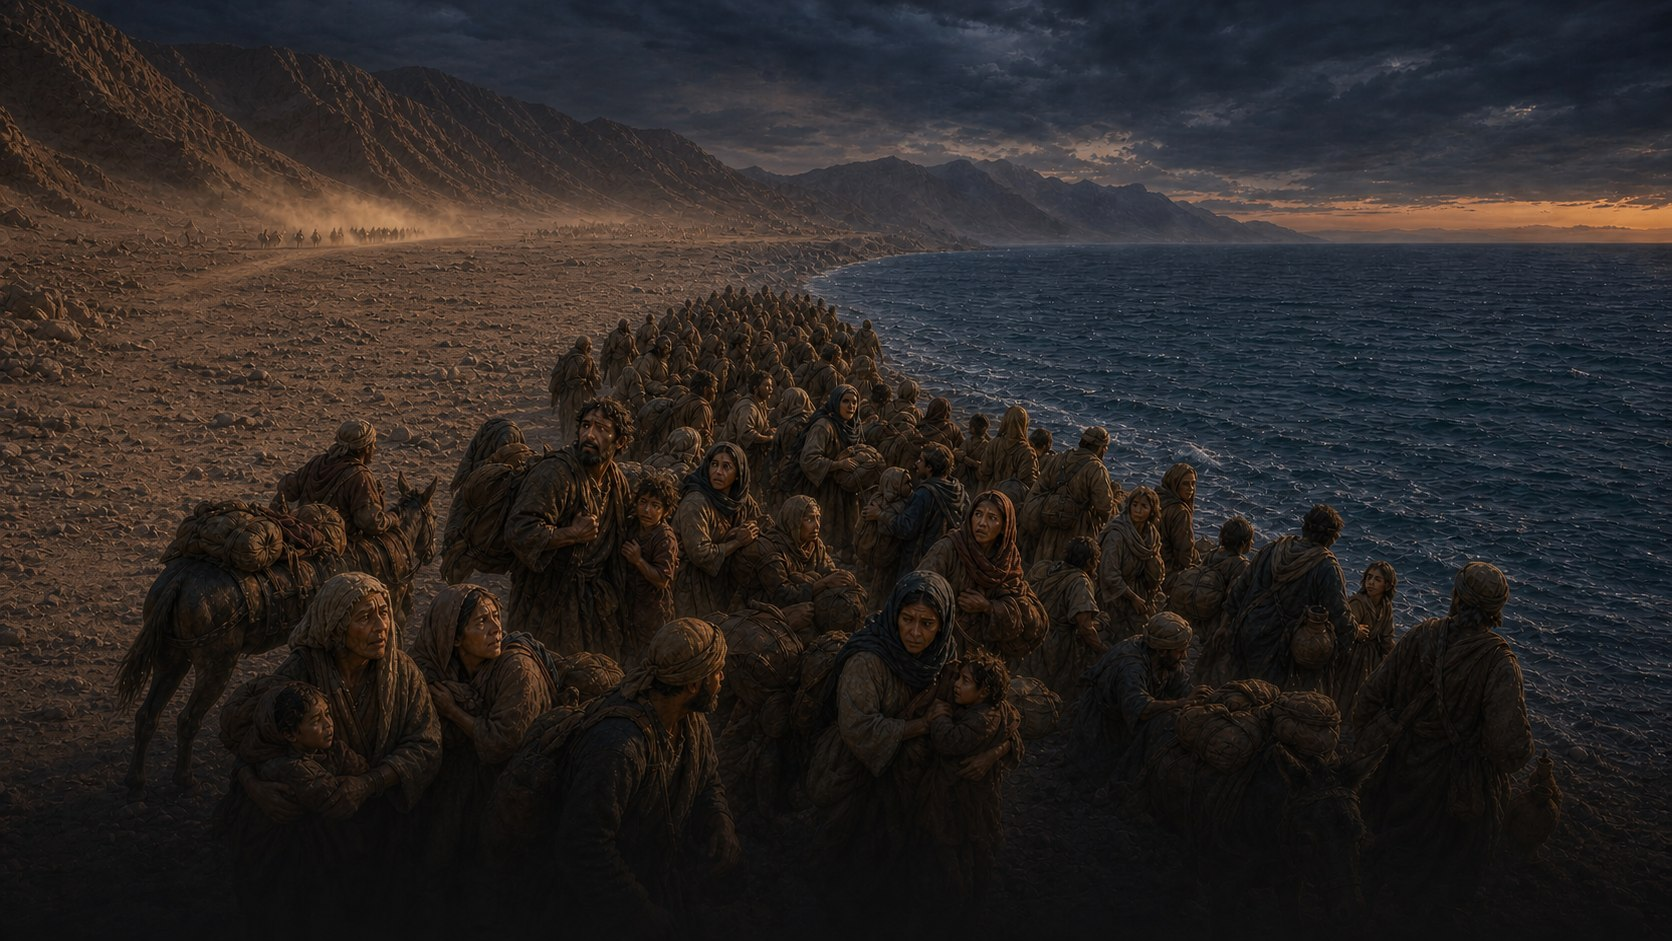
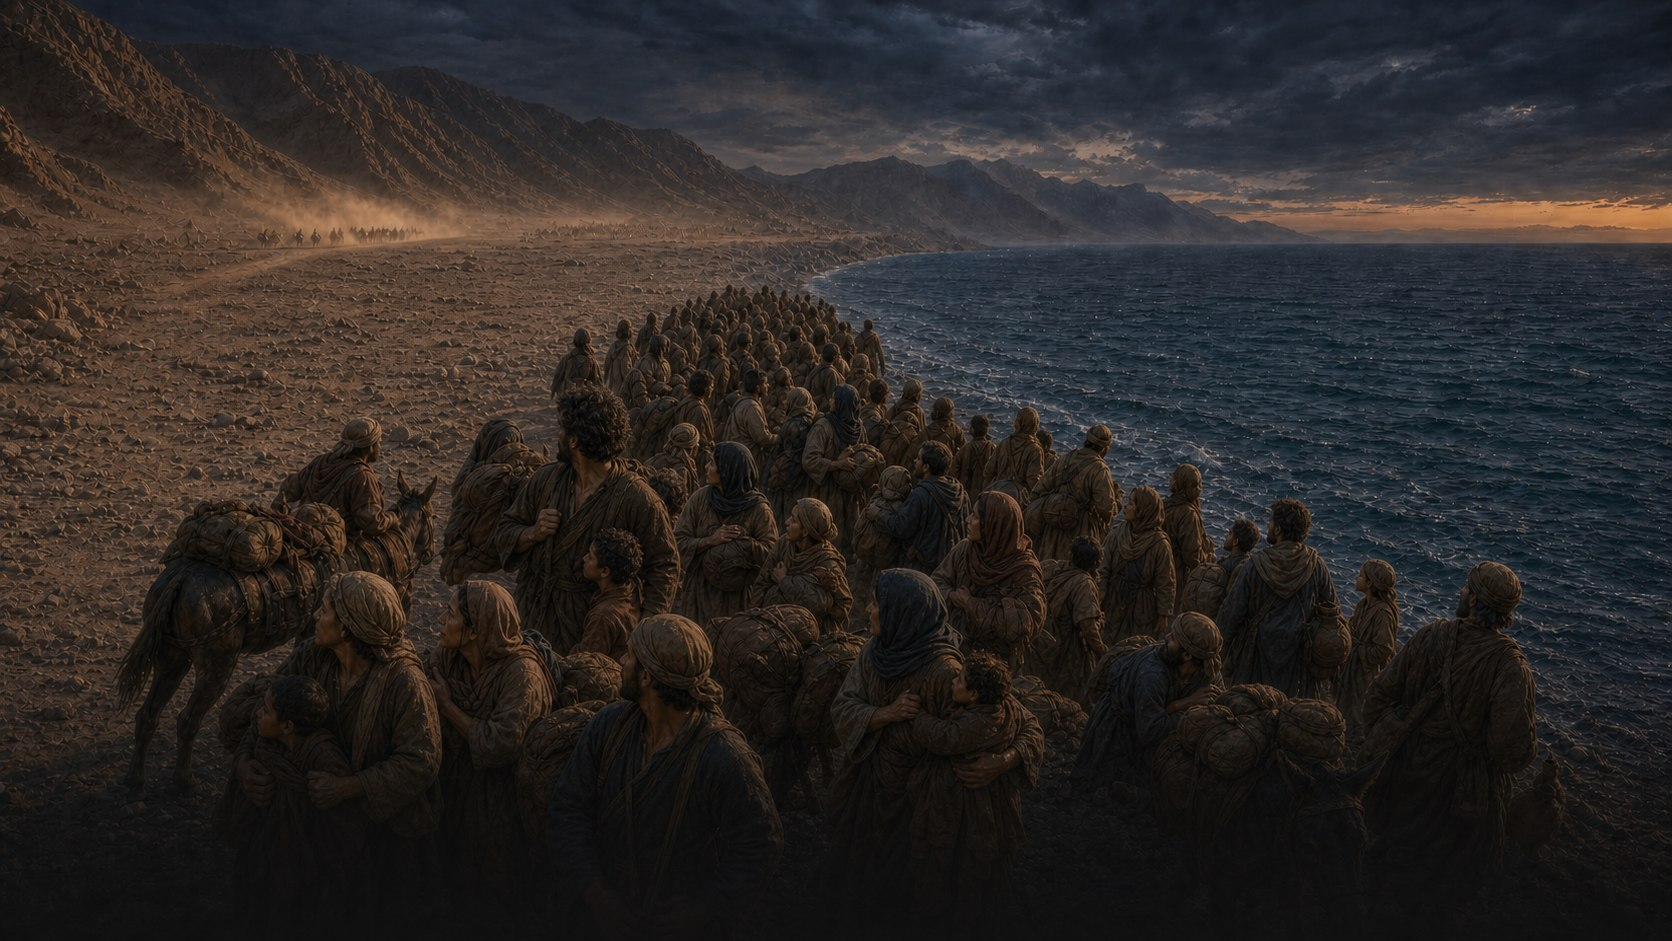
ui/ux: 홍해 배경 이미지 업데이트 및 캐시 버전 갱신
- `bible-story-trapped-at-red-sea.jpg` 이미지 리소스 최신화 교체
- `bible-story.css` 내 배경 이미지 캐시 버스트 쿼리 파라미터 업데이트 (`v=3`, `v=2` 적용)
- `bible-story.html`의 CSS 쿼리 파라미터 버전을 `v5.2`에서 `v5.3`으로 bump하여 변경사항 반영

diff --git a/src/main/resources/static/css/game/bible-story.css b/src/main/resources/static/css/game/bible-story.css
@@ -471,13 +471,13 @@ body.bible-story-page .site-header {
 .story-backdrop[data-theme="sea"][data-phase="trapped"] .story-backdrop-art {
     background:
         linear-gradient(180deg, rgba(3, 12, 24, 0.03), rgba(3, 12, 24, 0.42)),
-        #101c29 url("/images/game/bible-story-trapped-at-red-sea.jpg?v=2") center / cover no-repeat;
+        #101c29 url("/images/game/bible-story-trapped-at-red-sea.jpg?v=3") center / cover no-repeat;
 }
 
 .story-backdrop[data-theme="sea"][data-phase="barrier"] .story-backdrop-art {
     background:
         linear-gradient(180deg, rgba(3, 12, 24, 0.02), rgba(3, 12, 24, 0.38)),
-        #0a111c url("/images/game/bible-story-cloud-blocks-army.jpg") center / cover no-repeat;
+        #0a111c url("/images/game/bible-story-cloud-blocks-army.jpg?v=2") center / cover no-repeat;
 }
 
 .story-backdrop[data-theme="sea"][data-sea="open"] .story-backdrop-art {

diff --git a/src/main/resources/templates/game/bible-story.html b/src/main/resources/templates/game/bible-story.html
@@ -1,7 +1,7 @@
 <!DOCTYPE html>
 <html xmlns:th="http://www.thymeleaf.org" lang="ko">
 <head
-    th:replace="~{fragments/head :: head('어린양의 약속 | ElSeeker', true, '/css/game/bible-story.css?v=5.2')}"
+    th:replace="~{fragments/head :: head('어린양의 약속 | ElSeeker', true, '/css/game/bible-story.css?v=5.3')}"
     th:with="robotsContent='noindex',
                  pageDescription='유월절의 밤을 직접 준비하고, 바다를 건너고, 만나를 거두며 십자가와 부활에서 그 의미를 발견하는 성경 스토리 체험입니다.'">
 </head>
